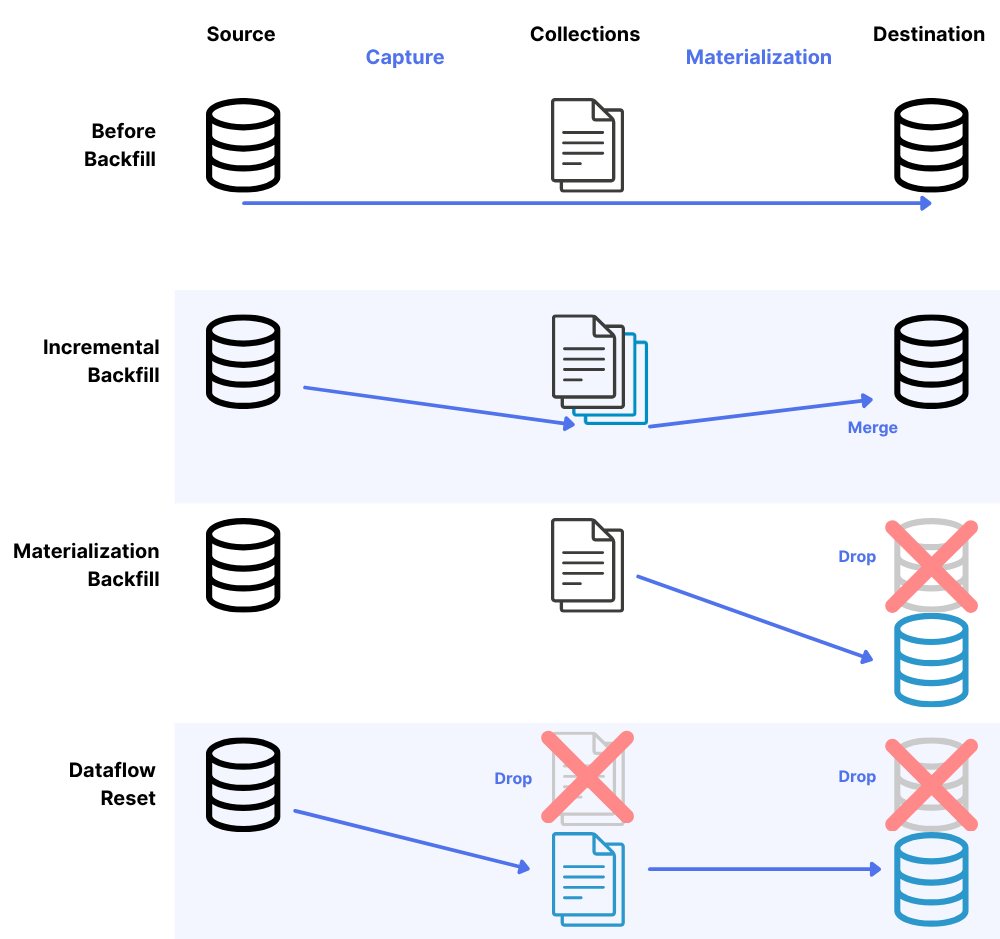
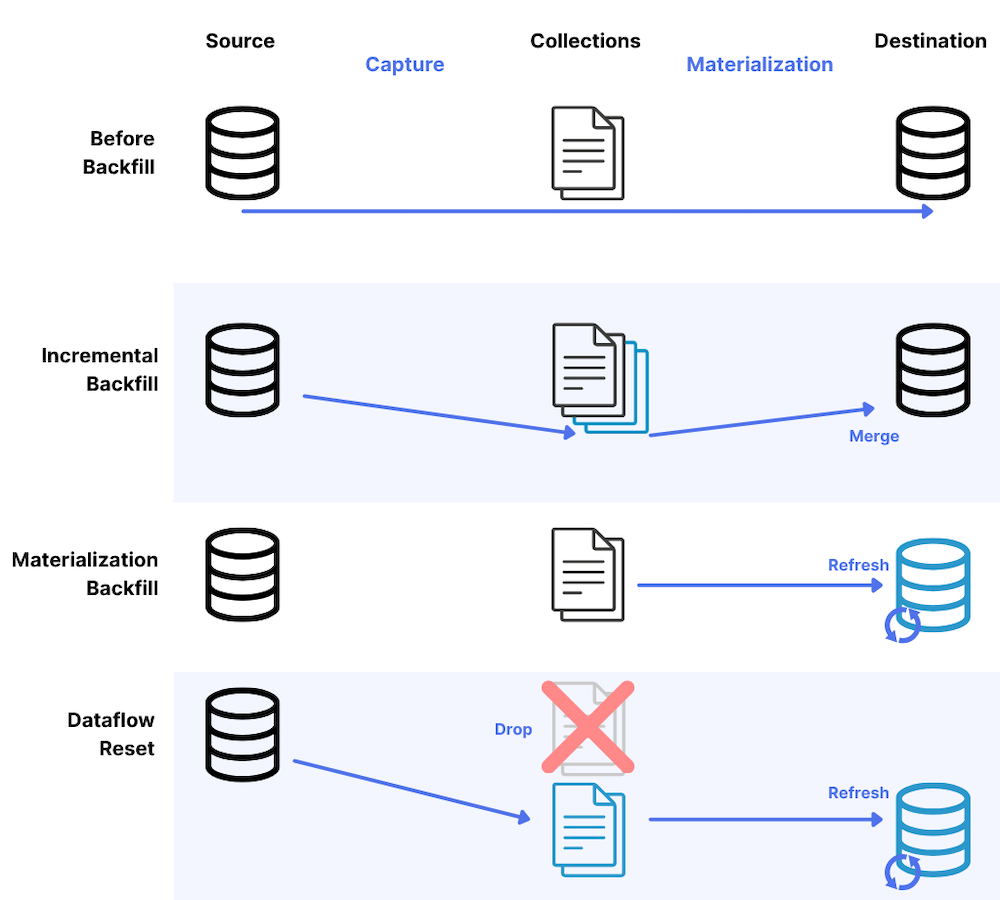
Docs: Update backfill image and other fixes (#2932)
* update backfill image, minor docs fixes

* wrestling with yaml indentation

* clarify sync schedule timing

Pull request: Docs: Update backfill image and other fixes
**Description:**

Collects a small assortment of docs fixes, including:
* Follow-up for #2922. Generalizes the backfill image to show destinations are refreshed rather than always dropped.
* Adds example YAML config for sync schedule usage.
* Clearly marks old HubSpot connector as deprecated.

Let me know if the backfill options image is clear now or if it could use any further tweaking.

diff --git a/site/docs/guides/customize-dataflows/materialization-sync-schedule.md b/site/docs/guides/customize-dataflows/materialization-sync-schedule.md
@@ -17,12 +17,8 @@ reduce the costs incurred in the destination from the actions the connector
 takes to load data to it.
 :::
 
-These materialization connectors support configuring a sync schedule:
-- [materialize-bigquery](/reference/Connectors/materialization-connectors/BigQuery)
-- [materialize-databricks](/reference/Connectors/materialization-connectors/databricks)
-- [materialize-motherduck](/reference/Connectors/materialization-connectors/motherduck)
-- [materialize-redshift](/reference/Connectors/materialization-connectors/amazon-redshift)
-- [materialize-snowflake](/reference/Connectors/materialization-connectors/Snowflake)
+Most warehouse materialization connectors (such as [Snowflake](/reference/Connectors/materialization-connectors/Snowflake), [Databricks](/reference/Connectors/materialization-connectors/databricks), and [BigQuery](/reference/Connectors/materialization-connectors/BigQuery)) support configuring a sync schedule.
+Check the connector reference docs to determine if a specific connector supports sync schedules.
 
 ## How transactions are used to sync data to a destination
 
@@ -61,9 +57,31 @@ schedule:
 |------------------------|------------------------|-------------------------------------------------------------------------------------------------------------------------------------------------------------------------------------------------------------------------------------------------------------------------------------------------------------------------------------------------------------------------------|--------|
 | `/syncFrequency`       | Sync Frequency         | Frequency at which transactions are executed when the materialization is fully caught up and streaming changes. May be enabled only for certain time periods and days of the week if configured below; otherwise it is effective 24/7. Defaults to 30 minutes if unset.                                                                                                       | string |
 | `/timezone`            | Timezone               | Timezone applicable to sync time windows and active days. Must be a valid IANA time zone name or +HH:MM offset.                                                                                                                                                                                                                                                               | string |
-| `/fastSyncStartTime`   | Fast Sync Start Time   | Time of day that transactions begin executing at the configured Sync Frequency. Prior to this time transactions will be executed more slowly. Must be in the form of '09:00'.                                                                                                                                                                                                 | string |
-| `/fastSyncStopTime`    | Fast Sync Stop Time    | Time of day that transactions stop executing at the configured Sync Frequency. After this time transactions will be executed more slowly. Must be in the form of '17:00'.                                                                                                                                                                                                     | string |
-| `/fastSyncEnabledDays` | Fast Sync Enabled Days | Days of the week that the configured Sync Frequency is active. On days that are not enabled, transactions will be executed more slowly for the entire day. Examples: 'M-F' (Monday through Friday, inclusive), 'M,W,F' (Monday, Wednesday, and Friday), 'Su-T,Th-S' (Sunday through Tuesday, inclusive; Thursday through Saturday, inclusive). All days are enabled if unset. | string |
+| `/fastSyncStartTime`   | Fast Sync Start Time   | Time of day that transactions begin executing at the configured Sync Frequency. Prior to this time transactions will be executed every 4 hours. Must be in the form of '09:00'.                                                                                                                                                                                                 | string |
+| `/fastSyncStopTime`    | Fast Sync Stop Time    | Time of day that transactions stop executing at the configured Sync Frequency. After this time transactions will be executed every 4 hours. Must be in the form of '17:00'.                                                                                                                                                                                                     | string |
+| `/fastSyncEnabledDays` | Fast Sync Enabled Days | Days of the week that the configured Sync Frequency is active. On days that are not enabled, transactions will be executed every 4 hours. Examples: 'M-F' (Monday through Friday, inclusive), 'M,W,F' (Monday, Wednesday, and Friday), 'Su-T,Th-S' (Sunday through Tuesday, inclusive; Thursday through Saturday, inclusive). All days are enabled if unset. | string |
+
+The sync schedule can be configured in the dashboard or directly in the materialization's specification file.
+Sync schedule properties are nested under a materialization's `config` stanza. For example:
+
+```yaml
+materializations:
+  your-org/mat-name/materialize-snowflake:
+    endpoint:
+      connector:
+        image: ghcr.io/estuary/materialize-snowflake:v4
+        config:
+          host: orgname-accountname.snowflakecomputing.com
+          database: estuary_db
+          credentials:
+            {...}
+          syncSchedule:
+            fastSyncEnabledDays: M-F
+            fastSyncStartTime: 06:00
+            fastSyncStopTime: 18:00
+            syncFrequency: 30m
+            timezone: EST
+```
 
 :::warning
 Changes to a [materialization's
@@ -116,8 +134,8 @@ of 9:00AM and 5:00PM in the Eastern Time Zone (ET) would use these values:
 
 #### Example: Sync data faster only on certain days of the week
 
-You can also set certain days of the week that the fast sync is active. On all
-other days, data will be sync'd more slowly all day.
+You can also set certain days of the week that the fast sync is active.
+Outside Fast Sync Enabled days, data will sync every 4 hours.
 
 To enable this, set values for **Sync Frequency**, **Timezone**, **Fast Sync
 Start Time**, and **Fast Sync Stop Time** as you would for syncing data faster

diff --git a/site/docs/guides/flowctl/ci-cd.md b/site/docs/guides/flowctl/ci-cd.md
@@ -57,7 +57,7 @@ captures:
   Artificial-Industries/ci-cd/source-stripe-native:
     endpoint:
       connector:
-        image: ghcr.io/estuary/source-stripe-native:dev
+        image: ghcr.io/estuary/source-stripe-native:v1
         config:
           credentials:
             credentials_title: Private App Credentials
@@ -82,7 +82,7 @@ captures:
   Artificial-Industries/ci-cd/source-postgres:
     endpoint:
       connector:
-        image: ghcr.io/estuary/source-postgres:dev
+        image: ghcr.io/estuary/source-postgres:v3
         config:
           address: <host>:<port>
           database: postgres
@@ -314,9 +314,9 @@ Consider this example specification:
 materializations:
   Artificial-Industries/ci-cd/materialize-snowflake:
     endpoint:
-  	  connector:
-        image: ghcr.io/estuary/materialize-snowflake:dev
-    	config:
+      connector:
+        image: ghcr.io/estuary/materialize-snowflake:v4
+        config:
           host: orgname-accountname.snowflakecomputing.com
           database: estuary_db
           schema: estuary_schema

diff --git a/site/docs/reference/Connectors/capture-connectors/HubSpot.md b/site/docs/reference/Connectors/capture-connectors/HubSpot.md
@@ -1,9 +1,11 @@
 
-# HubSpot
+# HubSpot (Deprecated)
 
 This connector captures data from a Hubspot account.
 
-Estuary offers a in-house real time version of this connector. For more information take a look at our [HubSpot Real-Time](/reference/Connectors/capture-connectors/HubSpot-real-time.md) docs.
+:::warning
+This connector is deprecated. It is recommended that you use the new native [HubSpot connector](/reference/Connectors/capture-connectors/HubSpot-real-time) instead.
+:::
 
 ## Supported data resources
 

diff --git a/site/docs/reference/Connectors/capture-connectors/calendly.md b/site/docs/reference/Connectors/capture-connectors/calendly.md
@@ -2,9 +2,6 @@
 
 This connector captures data from Calendly into Estuary collections.
 
-This connector is available for use in the Estuary web application.
-For local development or open-source workflows, [`ghcr.io/estuary/source-calendly:v1`](https://ghcr.io/estuary/source-calendly:v1) provides the latest connector image. You can also follow the link in your browser to see past image versions.
-
 ## Supported data resources
 
 The connector captures the following Calendly resources: